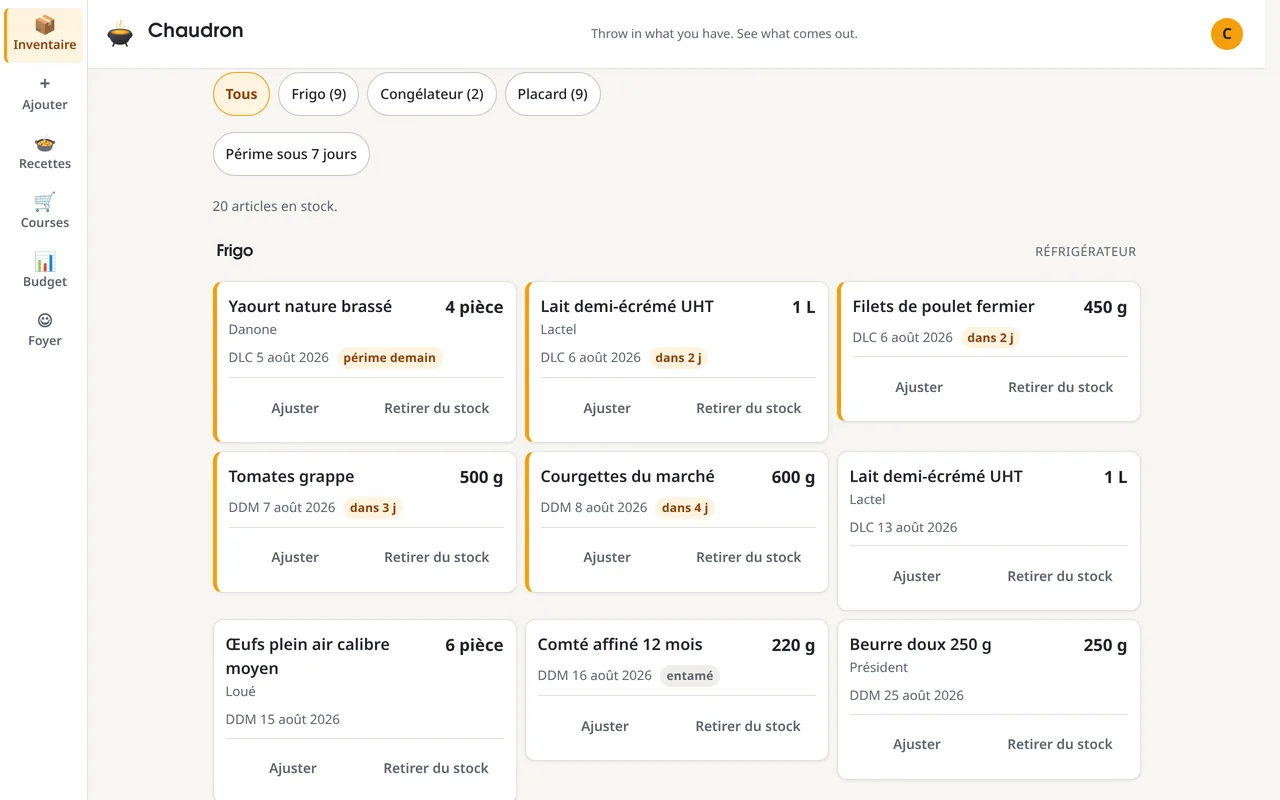
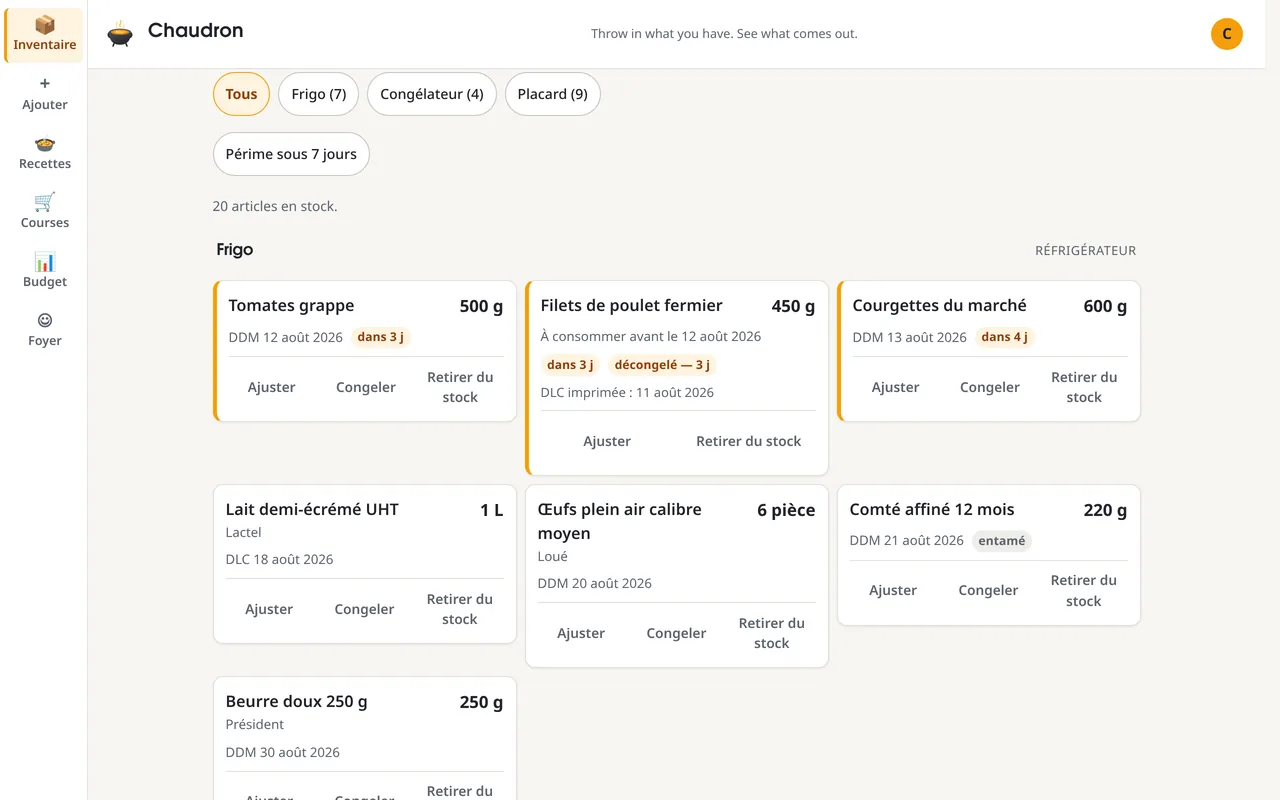
fix(screenshots): stop a filtered capture run from aborting on the recipes tab
`capture_set` called `suggest_recipes` unconditionally, including on runs where
the recipes capture had been filtered out. That call is the one step in the
script that can fail loudly -- it raises `SystemExit` when no provider is
configured -- so a filtered run aborted before the wide form factor started and
silently left those captures at whatever version was already on disk.

Guarding it on the same `_skip` predicate that decides whether to shoot makes
the model call follow the capture it exists to serve.

Also refreshes the published screenshots and the freezing paragraph's dates,
which move with the capture date, and records that the freezing shot is taken
by pressing the button rather than by seeding a frozen row -- a seeded row
would produce the same picture and prove nothing about the button.

diff --git a/tools/screenshots.py b/tools/screenshots.py
@@ -427,8 +427,15 @@ async def capture_set(browser: Browser, form_factor: str) -> list[Path]:
 
     await tab(page, "Recettes")
     await scroll_past_banner(page)
-    await suggest_recipes(page)
-    keep(await shoot(page, f"recipes{suffix}", form_factor))
+    # The model call is skipped when this capture was filtered out, and that is
+    # not an optimisation. Asking for suggestions is the one step here that can
+    # fail loudly -- `suggest_recipes` raises `SystemExit` when no provider is
+    # configured -- so leaving it in a filtered run aborted the whole script
+    # before the wide form factor ever started, and silently left those captures
+    # at whatever version was on disk.
+    if not _skip(f"recipes{suffix}"):
+        await suggest_recipes(page)
+        keep(await shoot(page, f"recipes{suffix}", form_factor))
 
     await page.close()
     return written

diff --git a/README.md b/README.md
@@ -308,12 +308,18 @@ nothing is computed until you ask.
 | <img src="docs/screenshots/freezing.webp" alt="Chicken fillets, now filed under the freezer, badged as frozen, good until November, with the printed August use-by kept underneath as a footnote" width="240"> | <img src="docs/screenshots/household-access.webp" alt="The accounts that can open this household, with roles, distinguished from the people who eat here" width="240"> | <img src="docs/screenshots/provider-setup.webp" alt="The provider screen on a fresh instance, explaining that nothing leaves until a provider is registered" width="240"> |
 
 **Left — the whole freezing feature in one frame.** Those chicken fillets were
-bought with a use-by of **10 August**. They have been frozen, so they have moved
-into the freezer, they read *good until 6 November*, and the printed date is
+bought with a use-by of **11 August**. They have been frozen, so they have moved
+into the freezer, they read *good until 7 November*, and the printed date is
 still on the row underneath. Nothing was overwritten: the application does not
 erase what somebody read off the packaging, it says what it now believes and
 shows its working. Take them out and the date drops to three days — refrigerated,
 and never refrozen. Those are ANSES's rules, not ours.
+
+Every screenshot on this page was taken by driving a browser through the real
+application against a live backend, and this one by pressing the button: the
+capture script freezes an actual lot and photographs the result rather than
+seeding a frozen row, because a seeded row would produce the same picture and
+prove nothing about the button.
 
 **Middle — accounts, not eaters, and the screen says so in as many words.** The
 people higher up that tab are who you cook *for*: an infant, someone who will
